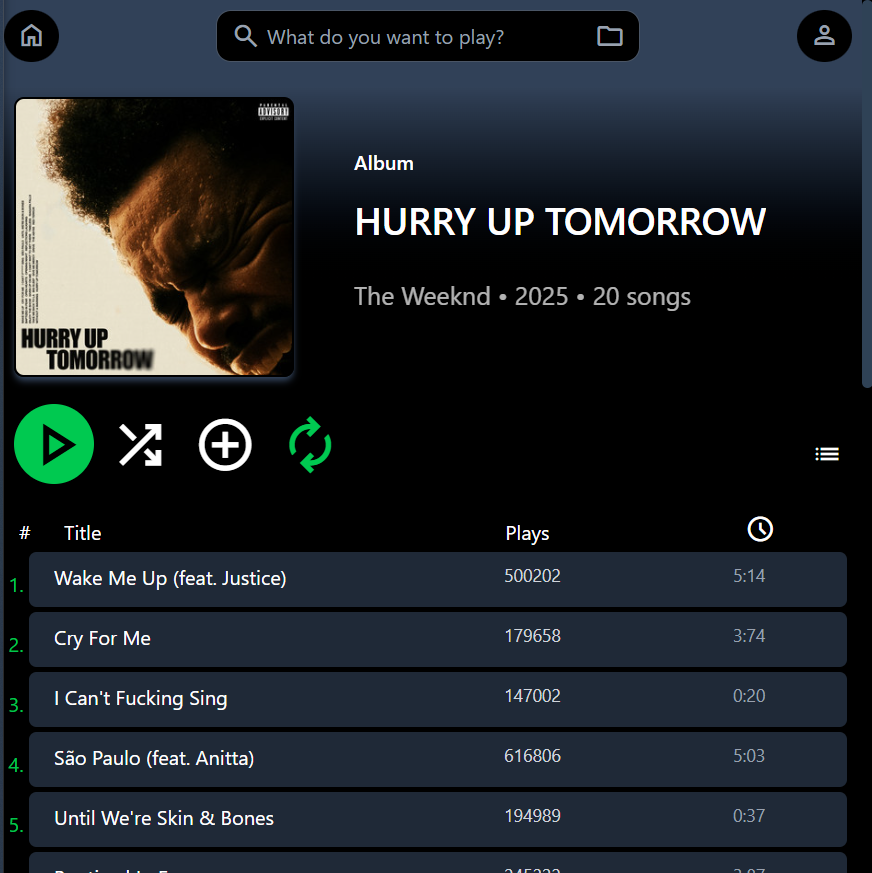
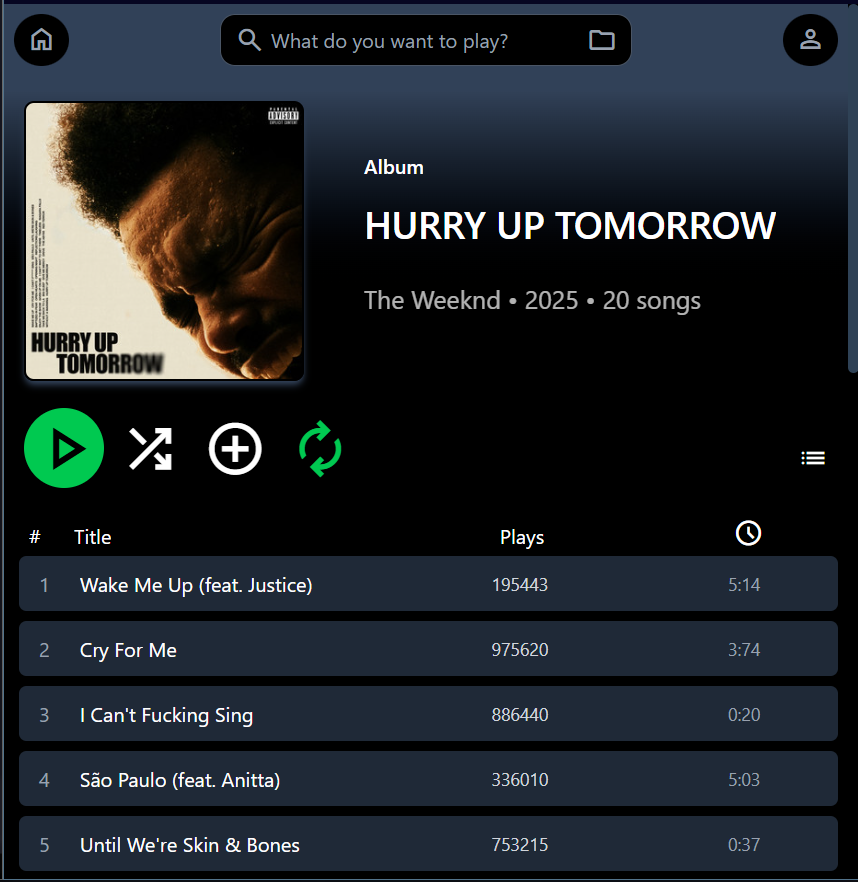
v1.5.0+

diff --git a/src/player/songsTrack.tsx b/src/player/songsTrack.tsx
@@ -21,38 +21,42 @@ const TrackList = ({ album }: { album: AlbumProps }) => {
     }
   }, [album]);
 
-
   return (
 <div>
-<ol className="list-decimal list-outside marker:text-green-500 pr-2 pl-5 ml-1 hover:cursor-pointer border-4 border-black bg-black">
+<ol className="marker:text-green-500 pr-1 ml-2 hover:cursor-pointer border-4 border-black bg-black">
   {songs.length > 0 ? (
     songs.map((song, index) => (
       <li
         title={song.name}
         key={index}
-        className="rounded-md hover:[&::marker]:content-['▶'] bg-[#1f2937] mb-2 text-white py-2 pr-2 pl-4 active:bg-gray-700 hover:bg-green-950 h-11 relative"
+        className="group rounded-md bg-[#1f2937] mb-2 text-white py-2 pr-2 pl-4 active:bg-gray-700 hover:bg-green-950 h-11 relative flex items-center"
       >
+        <span className="mr-5 text-gray-400 select-none group-hover:hidden">{index + 1}</span>
+
+        <span className="mr-5 hidden text-green-500 group-hover:inline font-mono select-none">▶</span>
 
         <span className="ml-1 inline-block max-w-[200px] sm:max-w-[500px] truncate">
           {song.name}
         </span>
 
-        <span className="absolute right-[35%] text-sm text-gray-300">
+        <span className="absolute right-[35.4%] text-sm text-gray-300">
           {song.plays}
         </span>
 
-        <span className="absolute right-[10%] text-sm text-gray-400">
+        <span className="absolute right-[9.5%] text-sm text-gray-400">
           {song.duration}
         </span>
       </li>
     ))
   ) : (
     <div className="text-gray-500 flex-col text-center justify-center mt-20">
-    <h1 className="text-4xl">˙◠˙</h1>
-    <p className="text-xl">No songs available</p>
-  </div>
+      <h1 className="text-4xl">˙◠˙</h1>
+      <p className="text-xl">No songs available</p>
+    </div>
   )}
 </ol>
+
+
 
 </div>
 

diff --git a/src/player/footerTrack.tsx b/src/player/footerTrack.tsx
@@ -5,9 +5,9 @@ const Footer = ({ album }: { album: AlbumProps }) => {
 
     return(
         <div className=" text-white opacity-[40%] ml-4 mt-5 h-40 leading-5">
-            <span className="">{album.date}</span><br/>
-            <span className="text-xs">©{album.year_date} {album.name}</span><br/>
-            <span className='flex justify-end pr-1'>v1.4.5</span>
+            <span className="hover:text-green-400">{album.date}</span><br/>
+            <span className="hover:text-green-400 text-xs">©{album.year_date} {album.name}</span><br/>
+            <span className='hover:text-green-400 flex justify-end pr-1'>v1.5.0</span>
 
         </div>
     )

diff --git a/backend/SpotifyService.js b/backend/SpotifyService.js
@@ -47,7 +47,6 @@ export async function getRandomAlbum() {
     );
 
     const albums = res.data.albums.items;
-    
     const shuffled = albums.sort(() => 0.5 - Math.random());
 
     for (const album of shuffled) {
@@ -67,6 +66,7 @@ export async function getRandomAlbum() {
             headers: { Authorization: `Bearer ${token}` },
           }
         );
+        
 
         return {
           id: album.id,

diff --git a/backend/server.js b/backend/server.js
@@ -20,6 +20,7 @@ app.get("/api/random-album", async (req, res) => {
   }
 });
 
+
 console.log("CLIENT_ID:", process.env.SPOTIFY_CLIENT_ID);
 console.log("CLIENT_SECRET:", process.env.SPOTIFY_CLIENT_SECRET);
 
